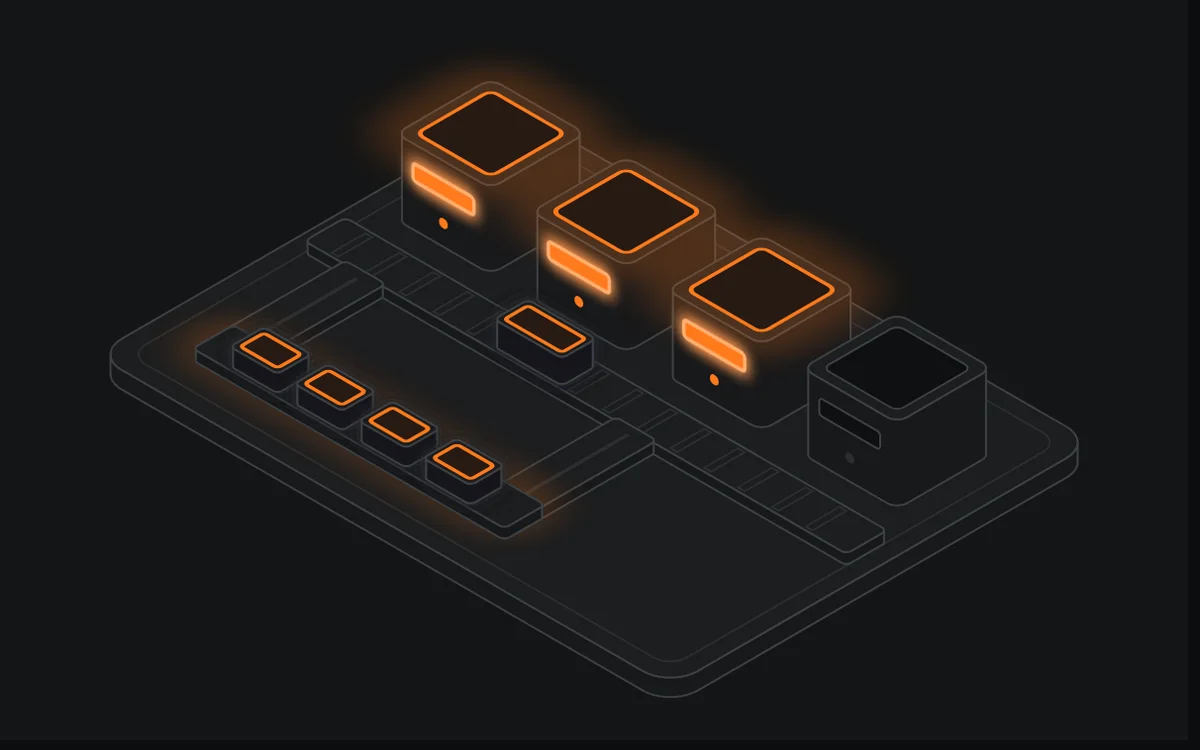
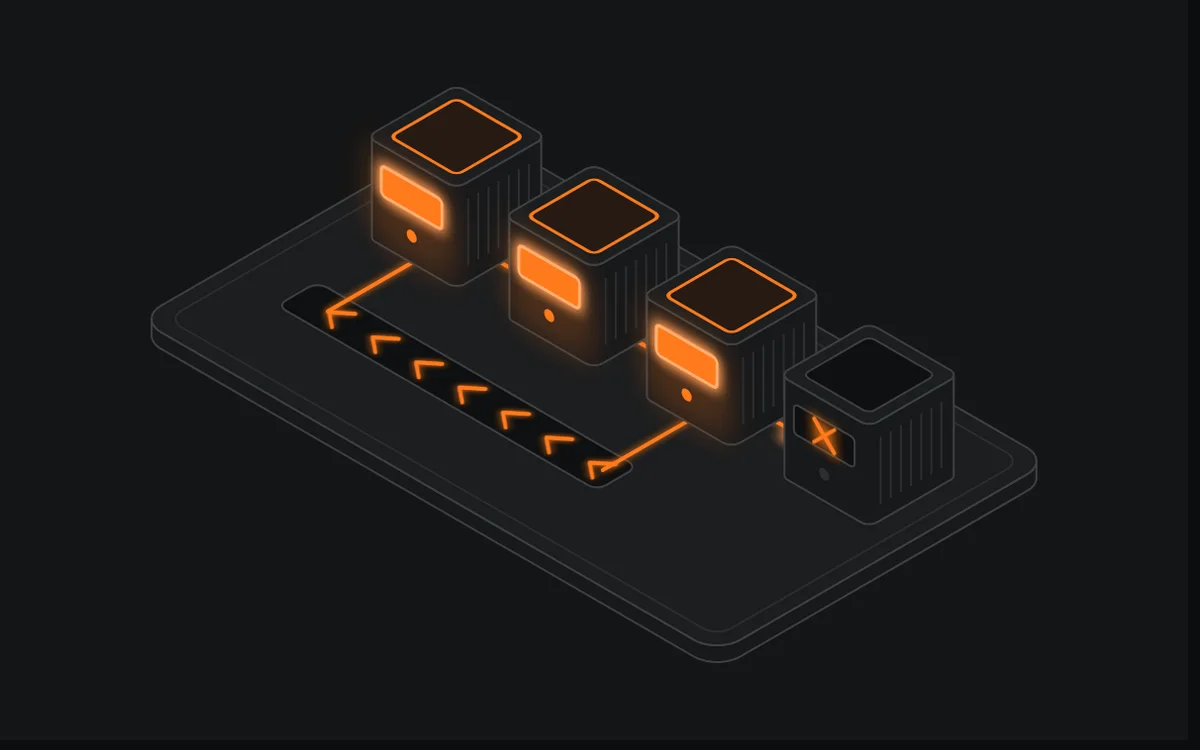
Saga cover: three lit steps, a failed fourth, and the compensation lane running back

diff --git a/tools/covers/covers-b.js b/tools/covers/covers-b.js
@@ -186,30 +186,39 @@ FIGS.push({
   },
 });
 
-// 10 · Saga: a track of stations, the last one fails and a lit compensation track runs back.
+// 10 · Saga: four steps on a forward track; step 4 fails (dark, a lit cross on its screen), and the
+// compensation runs back along a lit return lane from step 3 to step 1.
 FIGS.push({
-  id: 'saga', name: 'Saga', aria: 'Trilho com estações e um desvio que volta, compensando.',
+  id: 'saga', name: 'Saga Pattern', aria: 'Quatro passos em fila; o quarto falha e a compensação volta acesa até o primeiro.',
   mount(stage, api) {
-    const K = api.iso.frame([[0, 0, 0], [340, 0, 0], [0, 250, 0], [340, 250, 0], [20, 40, 80]]);
+    const W = 400, D = 230, S = 62, Y = 40, XS = [30, 125, 220, 315], LANE = 160;
+    const K = api.iso.frame([[0, 0, 0], [W, 0, 0], [0, D, 0], [W, D, 0], [30, Y, 80]]);
     const { P, TOP, FRONT, SIDE, box } = K;
-    let s = plateB(K, 340, 250);
-    const st = [20, 100, 180, 260];
-    st.forEach((x, i) => {
-      s += box(x, 36, 10, 56, 56, 44, 6);
-      s += `<g transform="${TOP(x, 36, 54)}">${i < 3 ? `<rect class="halo hot" filter="url(#bloom)" x="-14" y="-14" width="84" height="84" rx="26"/>` : ''}<rect class="${i < 3 ? 'glass hot' : 'face recess'}" x="6" y="6" width="44" height="44" rx="4"/></g>`;
-      s += `<g transform="${FRONT(x, 92, 54)}"><rect class="${i < 3 ? 'lit' : 'face recess'}" ${i < 3 ? 'filter="url(#glow)"' : ''} x="10" y="10" width="36" height="9" rx="2"/><circle class="led ${i < 3 ? 'hot' : ''}" cx="28" cy="32" r="2.6"/></g>`;
+    let s = plateB(K, W, D);
+    const cy = Y + S / 2;
+    // Forward track behind the stations: lit up to step 3, cut before step 4.
+    const brk = XS[3] - 16;
+    s += `<path class="wire hot" filter="url(#soft)" d="M${P(XS[0] + S / 2, cy, 10)} L${P(brk - 8, cy, 10)}"/>`;
+    s += `<path class="wire" d="M${P(brk + 8, cy, 10)} L${P(XS[3] + S / 2, cy, 10)}"/>`;
+    s += `<g transform="${TOP(brk - 7, cy - 7, 10)}"><circle class="lit" filter="url(#glow)" cx="7" cy="7" r="7"/></g>`;
+    // Return lane in front, with chevrons pointing back toward step 1.
+    s += `<g transform="${TOP(XS[0] + 10, LANE - 14, 10)}"><rect class="face recess" x="0" y="0" width="${XS[2] + S / 2 - XS[0]}" height="28" rx="6"/>`;
+    for (let x = 22; x < XS[2] + S / 2 - XS[0] - 14; x += 30)
+      s += `<path class="wire hot" filter="url(#soft)" d="M${x + 10} 6 L${x} 14 L${x + 10} 22"/>`;
+    s += `</g>`;
+    // U-turn from step 3 down to the lane, and from the lane up into step 1.
+    const u3 = XS[2] + S / 2, u1 = XS[0] + S / 2;
+    s += `<path class="wire hot" filter="url(#soft)" d="M${P(u3, Y + S, 10)} L${P(u3, LANE, 10)}"/>`;
+    s += `<path class="wire hot" filter="url(#soft)" d="M${P(u1, LANE, 10)} L${P(u1, Y + S, 10)}"/>`;
+    // Stations, back to front along x.
+    XS.forEach((x, i) => {
+      const ok = i < 3;
+      s += box(x, Y, 10, S, S, 60, 6);
+      s += `<g transform="${FRONT(x, Y + S, 70)}">${ok ? `<rect class="halo hot" filter="url(#bloom)" x="0" y="0" width="${S}" height="60" rx="16"/>` : ''}<rect class="${ok ? 'lit' : 'face recess'}" ${ok ? 'filter="url(#glow)"' : ''} x="10" y="12" width="${S - 20}" height="18" rx="3"/>${ok ? '' : `<path class="wire hot" filter="url(#glow)" d="M${S / 2 - 7} 14 L${S / 2 + 7} 28 M${S / 2 + 7} 14 L${S / 2 - 7} 28"/>`}<circle class="led ${ok ? 'hot' : ''}" cx="${S / 2}" cy="44" r="3.5"/></g>`;
+      s += `<g transform="${SIDE(x + S, Y + S, 70)}">${api.iso.slits(8, S - 8, 7, 10, 50)}</g>`;
+      s += `<g transform="${TOP(x, Y, 70)}"><rect class="${ok ? 'glass hot' : 'face recess'}" x="8" y="8" width="${S - 16}" height="${S - 16}" rx="4"/></g>`;
     });
-    // Forward track with sleepers and a lit packet; return track below it, lit.
-    s += box(10, 112, 10, 320, 24, 6, 3);
-    for (let i = 0; i < 15; i++) s += `<g transform="${TOP(24 + i * 20, 112, 16)}"><rect class="detail" x="0" y="2" width="4" height="20"/></g>`;
-    s += litBoxB(K, 120, 114, 16, 40, 20, 14, 3);
-    s += box(32, 134, 10, 24, 88, 6, 3) + box(192, 134, 10, 24, 88, 6, 3);
-    s += `<g transform="${TOP(32, 134, 16)}"><rect class="detail" x="12" y="6" width="1" height="76"/></g>`;
-    s += `<g transform="${TOP(192, 134, 16)}"><rect class="detail" x="12" y="6" width="1" height="76"/></g>`;
-    s += `<g transform="${TOP(32, 200, 16)}"><rect class="halo hot" filter="url(#bloom)" x="-10" y="-10" width="204" height="44" rx="20"/></g>`;
-    s += box(32, 200, 10, 184, 24, 6, 3);
-    for (let i = 0; i < 4; i++) s += litBoxB(K, 52 + i * 38, 202, 16, 28, 20, 10, 3);
-    stage.setAttribute('viewBox', cover(K)); stage.innerHTML = s;
+    stage.setAttribute('viewBox', cover(K, -0.04)); stage.innerHTML = s;
     return {};
   },
 });
